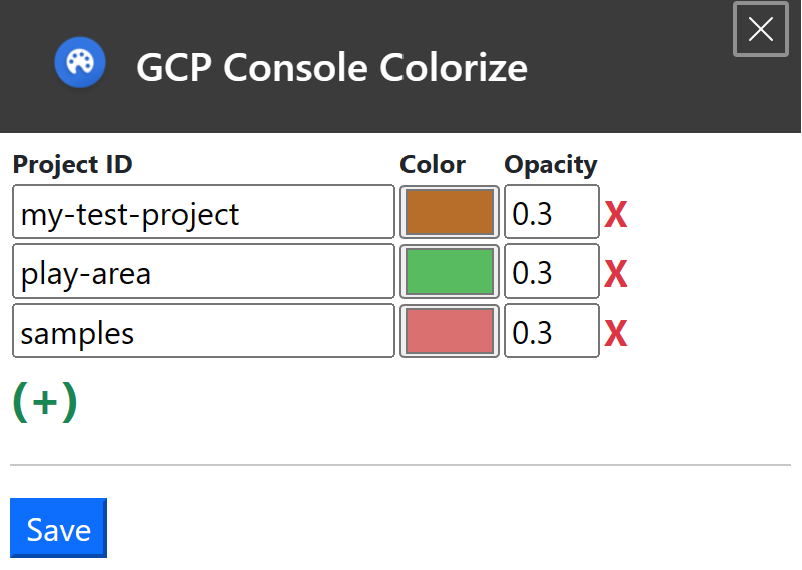
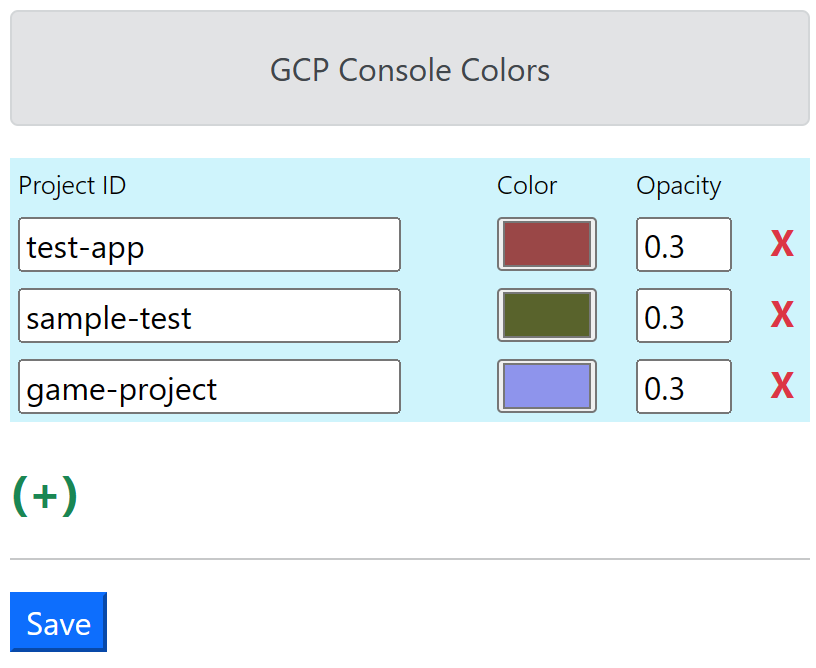
style clean up

diff --git a/options.html b/options.html
@@ -7,11 +7,10 @@
 </head>
 
 <body>
-    <div class="text-center">GCP Console Colors</div>
-    <hr>
+    <div class="alert text-center alert-secondary">GCP Console Colors</div>
     <div id="container">
-        <table id="conditions">
-            <tr style="font-size: small;">
+        <table id="conditions" class="table table-sm table-info table-borderless">
+            <tr>
                 <th>Project ID</th>
                 <th>Color</th>
                 <th>Opacity</th>

diff --git a/options.css b/options.css
@@ -24,7 +24,8 @@ html {
 }
 
 th{
-  font-weight: 450;
+  font-weight: 350;
+  font-size: small;
 }
 
 #save{
